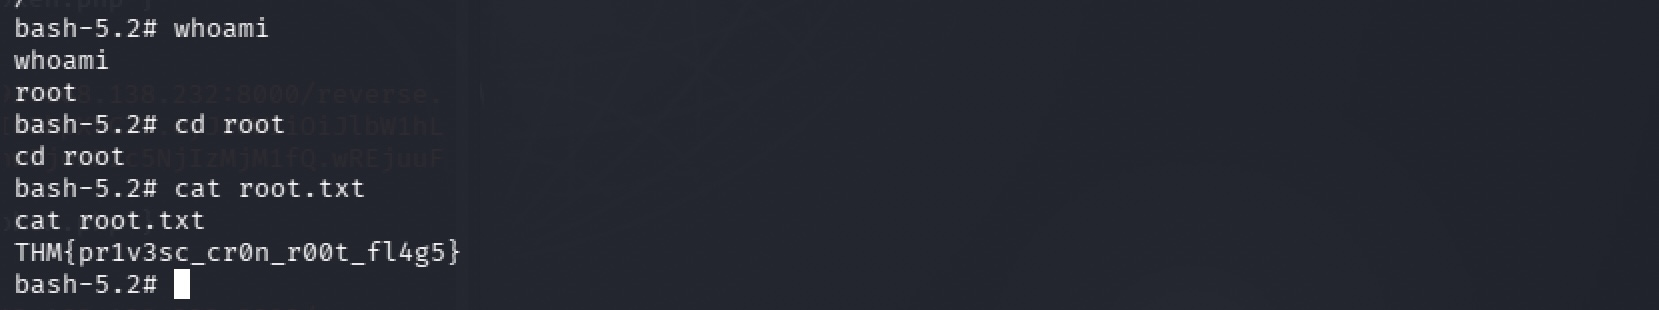
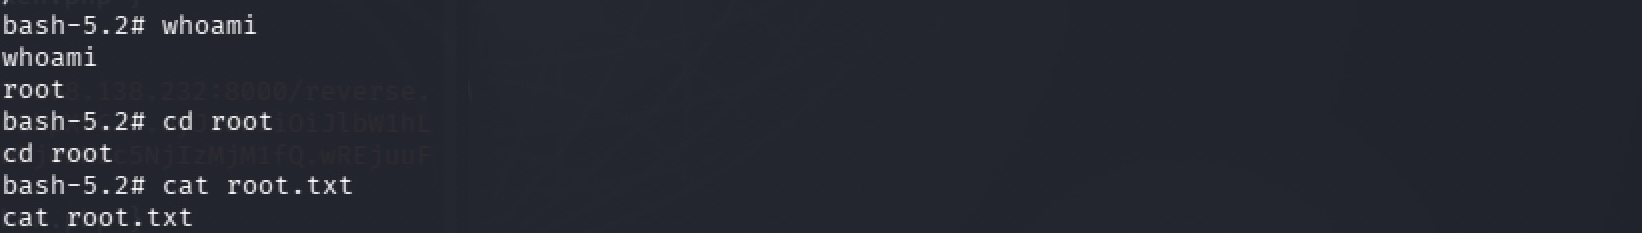
all ss added

diff --git a/tryhackme/domino/README.md b/tryhackme/domino/README.md
@@ -104,8 +104,8 @@ Separately, the login page itself linked to two pages worth reading before touch
 
 **Why this matters:** an encrypted backup and a valid username list are two very different but equally useful things. One tells me there's a secret to find; the other tells me _who_ to try to become. Both come from pages nobody explicitly hid — the app leaked its own attack surface just by existing.
 
-`![Screenshot: /backup/README.txt contents]`
-`![Screenshot: team.php page showing employee emails/usernames]`
+![Screenshot:](screenshots/5users.jpg)
+![Screenshot:](screenshots/4backupreadme.jpg)
 
 ***
 
@@ -129,7 +129,6 @@ _backupKey: 'N3xusK3y2024!!'
 
 **What this tells me / what's next:** I now have the AES key needed to decrypt `config.enc`. Next step: decrypt the backup.
 
-`![Screenshot: app.js source showing the leaked key]`
 ![/Backup:](screenshots/3staticapijs.jpg)
 
 
@@ -160,8 +159,8 @@ cat config_decrypted
 
 **What this tells me / what's next:** this names a real system account — `devops` — that exists on the server. Worth noting for later; it becomes important during privilege escalation. For now, the web app's login is still the main target.
 
-`![Screenshot: decrypted config.enc contents]`
-![Screenshot:](screenshots/3staticapijs.jpg)
+
+![Screenshot:](screenshots/decrypt.jpg)
 
 
 ***
@@ -193,11 +192,7 @@ hydra -L users.txt -P /usr/share/seclists/Passwords/Common-Credentials/xato-net-
 
 **What this tells me / what's next:** I now had a real, logged-in session as a low-privileged employee account, which is exactly what's needed to legitimately request a JWT from the API (rather than trying to bypass authentication entirely). From here, the API itself becomes the next target.
 
-`![Screenshot: hydra output showing the cracked sarah.johnson credentials]` 
-`![Screenshot: successful login as sarah.johnson, session cookie set]`
 ![Screenshot:](screenshots/hydra.jpg)
-
-
 
 ***
 
@@ -228,9 +223,9 @@ curl 'http://<target_ip>/api/users/profile.php?id=1' \
 
 **What this tells me / what's next:** the server never checked whether the `id` I asked for matched _my own_ account — only that my token was valid at all. This confirms an IDOR: any authenticated user can pull any other user's profile by changing one number. It also reveals the admin account's username (`laura.hayes`), useful for impersonating that account later.
 
-**Flag 1:** `THM{flag1}`
+![Screenshot:](screenshots/.jpg)
 
-`![Screenshot: profile.php?id=1 response containing flag 1]`
+**Flag 1:** `THM{flag1}`
 
 ***
 
@@ -266,7 +261,7 @@ setcookie('nexus_session', $cookie_data . '.' . $sig, ...);
 
 The cookie is just `base64(json) + "." + HMAC-SHA256(json, APP_SECRET)` — no server-side session table backing it. With the signing secret in hand, I can build a valid cookie for _any_ user entirely on my own machine.
 
-`![Screenshot: files.php leaking config.php]`
+
 ![Screenshot:](screenshots/config.jpg)
 
 
@@ -296,7 +291,7 @@ print(forged_cookie)
 
 **Flag 2:** `THM{flag2}`
 
-`![Screenshot: forged cookie set in browser dev tools]` `![Screenshot: admin panel access showing flag 2]`
+
 ![Screenshot:](screenshots/forgecookie.jpg)
 ![Screenshot:](screenshots/adminprog.jpg)
 ![Screenshot:](screenshots/adminco.png)
@@ -371,7 +366,7 @@ whoami
 devops
 ```
 
-`![Screenshot: su to devops succeeding]`
+
 ![Screenshot:](screenshots/lateral.jpg)
 
 ***
@@ -424,7 +419,7 @@ cat /root/root.txt
 
 **Flag 4 (root):** `THM{flag4}`
 
-`![Screenshot: pspy64 catching the root cron job]` `![Screenshot: SUID bash confirmed, root shell, and flag 4]`
+
 ![Screenshot:](screenshots/root.jpg)
 ![Screenshot:](screenshots/realroot.jpg)
 